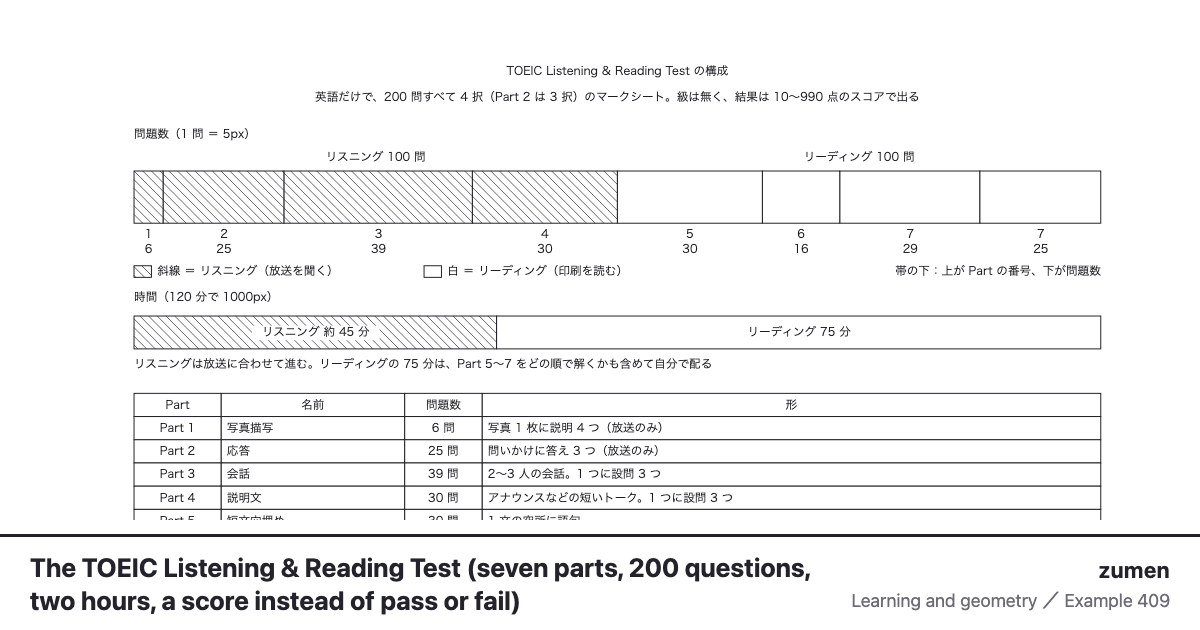
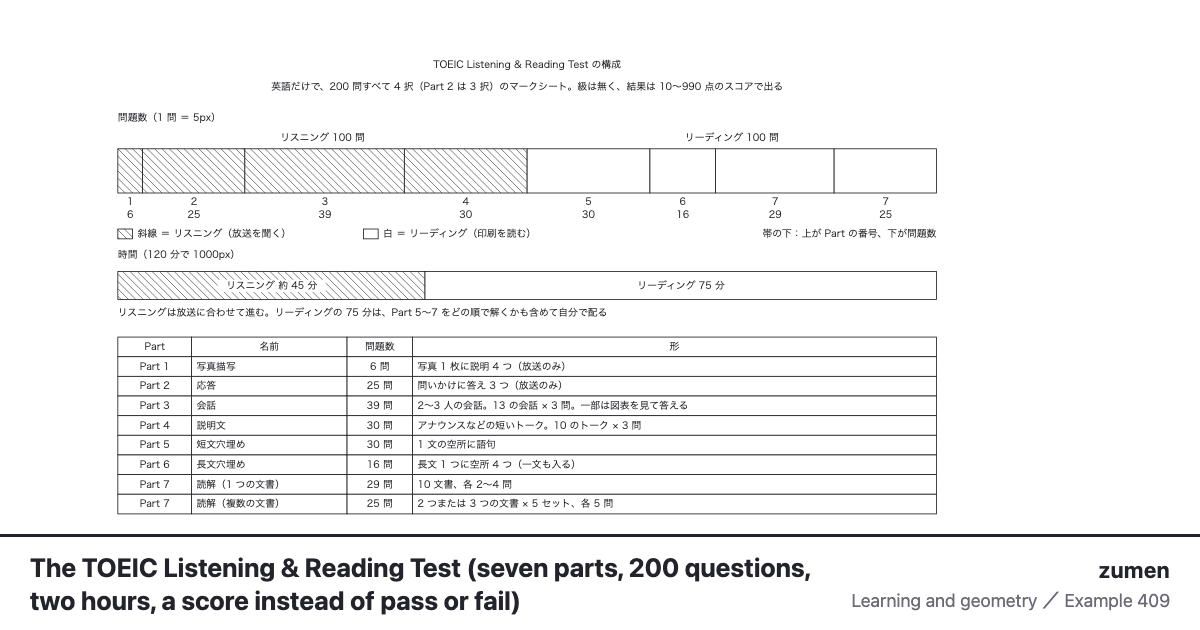
fix(見本): 409 を見直し —— Part ごとの数と 2016 年の形・英検の CSE
Part 3 は 13 の会話 × 3 問、Part 4 は 10 のトーク × 3 問、Part 7 は 10 文書と 2〜3 文書 × 5 セット
（ETS の受験者向けハンドブック）。図表を見て答える設問と、チャット・テキストメッセージの文書を足した。
英検も合否に加えて CSE スコアが出る、英作文と面接は 3 級以上、に直した。
何年に何が加わったかはハンドブックにも書かれていないので、描かなかったものに残した。

Claude-Session: https://claude.ai/code/session_01SsuPBZV9YaAZ9NJNDHvP2H

diff --git a/site/all/index.html b/site/all/index.html
@@ -276,7 +276,7 @@
       <li data-name="402 時差の世界地図（経度の帯と、国が決めた時） Every 15 degrees of longitude is an hour, but clocks follow borders. Twenty cities from the IANA tz database sit on the nominal bands: Seoul keeps Japan's 135-degree time, all of China keeps +8, Kolkata +5:30 and Kathmandu +5:45, and Kiritimati and Apia lie east of 180 degrees yet keep +14 and +13, a whole day ahead of Pago Pago next door. 学び・図学"><a href="../g/402/"><img src="../gallery/402-%E6%99%82%E5%B7%AE%E3%81%AE%E4%B8%96%E7%95%8C%E5%9C%B0%E5%9B%B3-%E7%B5%8C%E5%BA%A6%E3%81%AE%E5%B8%AF%E3%81%A8%E5%9B%BD%E3%81%8C%E6%B1%BA%E3%82%81%E3%81%9F%E6%99%82.svg" alt="太平洋を真ん中に置いた世界地図に、経度 15° ごとの時差の帯（−2〜±12〜−3）を破線で引き、20 都市の実際の標準時を札で置いた図。経度どおりは白、国で決めて 1 時間以上ずれる所（ソウル・ラサ・マドリード・ホノルル）は青、30 分・45 分ずらす所（コルカタ +5:30・カトマンズ +5:45 など）は橙、経度 180° より東なのに日付が先の所（キリティマティ +14・アピア +13・チャタム +12:45）は紫。日本の標準時の東経 135° を赤い線で。下に都市ごとの経度・経度で決めた時差・標準時・夏時間・わけの表" width="1010" height="1082" loading="lazy" decoding="async"><span>時差の世界地図（経度の帯と、国が決めた時）</span></a></li>
       <li data-name="407 英検の級ごとの構成（2024 年度のリニューアルと、2025 年度の準 2 級プラス） All eight grades of EIKEN, the Japanese English test, as rows, with each part drawn to scale in minutes: reading and writing, then listening, then the interview (an optional speaking test for Grades 4 and 5), and the two writing tasks per grade. A table lists the 2024 changes: a second writing task (summary or e-mail), fewer reading questions, more time for Pre-2 and 3. 学び・図学"><a href="../g/407/"><img src="../gallery/407-%E8%8B%B1%E6%A4%9C%E3%81%AE%E7%B4%9A%E3%81%94%E3%81%A8%E3%81%AE%E6%A7%8B%E6%88%90.svg" alt="英検の 1 級から 5 級まで 8 つの級を行に並べ、一次試験の時間を横の長さ（1 分 4px）で描いた図。リーディング・ライティングの枠に続けてリスニングを点の地で、右に二次試験（3 級以上で一次に合格した人の英語での面接）を斜線で、4・5 級の任意のスピーキングテストを網目で、その右にライティングの 2 題（1 級〜準 2 級プラスは要約と意見論述、準 2 級と 3 級は E メールと意見論述）。2024 年度に形が変わった級に 2024、準 2 級プラスに 2025 の印。下に、2024 年度第 1 回から変わったこと（英作文が 2 題に、リーディングの問題数、準 2 級と 3 級の時間延長）の表" width="1344" height="1092" loading="lazy" decoding="async"><span>英検の級ごとの構成（2024 年度のリニューアルと、2025 年度の準 2 級プラス）</span></a></li>
       <li data-name="408 マークシートの様式と塗り方（架空の解答用紙・タイミングマーク・良い例と悪い例） A fictional machine-read answer sheet. The ID is written in boxes and marked digit by digit, 0 at the top; answers are one oval per question; black timing marks down the edge let the reader count rows, while the ovals are printed in a dropout colour the reader ignores. Beside it: one good mark, six bad ones, common ID mistakes and the pencil rules of two exams. 学び・図学"><a href="../g/408/"><img src="../gallery/408-%E3%83%9E%E3%83%BC%E3%82%AF%E3%82%B7%E3%83%BC%E3%83%88%E3%81%AE%E6%A7%98%E5%BC%8F%E3%81%A8%E5%A1%97%E3%82%8A%E6%96%B9.svg" alt="架空のマークシートの解答用紙。左の用紙に、手で書いた受験番号 4 けたと、その下で同じけたの数字を塗る 0〜9 の縦の欄（0 が上、9 がいちばん下）、問 1〜8 の 1〜4 の楕円を並べ、左の縁に読み取り機が行を数える黒いタイミングマークを刷った。楕円と数字は読み取りで消えるドロップアウトカラーで刷り、塗った所だけが黒い。右に塗り方の良い例（楕円の中を濃く全部）と悪い例 6 つ（線だけ・小さい・はみ出し・輪郭だけ・レ点・薄い）、受験番号で起きやすい塗り間違い 4 つの表。下に、鉛筆と消しゴムの決まりを大学入学共通テストと埼玉県の公立高校入試で比べた表" width="1244" height="1038" loading="lazy" decoding="async"><span>マークシートの様式と塗り方（架空の解答用紙・タイミングマーク・良い例と悪い例）</span></a></li>
-      <li data-name="409 TOEIC L&amp;R の構成（7 つの Part・200 問・2 時間。結果は合否ではなくスコア） The 200 questions of the TOEIC Listening &amp; Reading Test as one bar, 5px per question: Parts 1 to 4 (listening, hatched) and Parts 5 to 7 (reading). Below: the 45 and 75 minutes, what each part asks, the score rulers (5 to 495 per section, 10 to 990 in all, no pass or fail) and how it differs from EIKEN. 学び・図学"><a href="../g/409/"><img src="../gallery/409-TOEIC-LR%E3%81%AE%E6%A7%8B%E6%88%90.svg" alt="TOEIC Listening &amp; Reading Test の 200 問を、1 問 5px の横の帯で Part 1 から 7 まで並べた図。斜線のリスニング（Part 1 写真描写 6・Part 2 応答 25・Part 3 会話 39・Part 4 説明文 30）と白のリーディング（Part 5 短文穴埋め 30・Part 6 長文穴埋め 16・Part 7 読解 1 つの文書 29・複数の文書 25）。その下に約 45 分と 75 分の時間の帯、Part ごとの形の表、リスニング 5〜495・リーディング 5〜495・トータル 10〜990 のスコアの物差し、英検との違いの表" width="1084" height="1022" loading="lazy" decoding="async"><span>TOEIC L&amp;R の構成（7 つの Part・200 問・2 時間。結果は合否ではなくスコア）</span></a></li>
+      <li data-name="409 TOEIC L&amp;R の構成（7 つの Part・200 問・2 時間。結果は合否ではなくスコア） The 200 questions of the TOEIC Listening &amp; Reading Test as one bar, 5px per question: Parts 1 to 4 (listening, hatched) and Parts 5 to 7 (reading). Below: the 45 and 75 minutes, what each part asks, the score rulers (5 to 495 per section, 10 to 990 in all, no pass or fail) and how it differs from EIKEN. 学び・図学"><a href="../g/409/"><img src="../gallery/409-TOEIC-LR%E3%81%AE%E6%A7%8B%E6%88%90.svg" alt="TOEIC Listening &amp; Reading Test の 200 問を、1 問 5px の横の帯で Part 1 から 7 まで並べた図。斜線のリスニング（Part 1 写真描写 6・Part 2 応答 25・Part 3 会話 39・Part 4 説明文 30）と白のリーディング（Part 5 短文穴埋め 30・Part 6 長文穴埋め 16・Part 7 読解 1 つの文書 29・複数の文書 25）。その下に約 45 分と 75 分の時間の帯、Part ごとの形の表、リスニング 5〜495・リーディング 5〜495・トータル 10〜990 のスコアの物差し、英検との違いの表" width="1298" height="1074" loading="lazy" decoding="async"><span>TOEIC L&amp;R の構成（7 つの Part・200 問・2 時間。結果は合否ではなくスコア）</span></a></li>
     </ul>
   </section>
   <section class="field" data-field="楽器・音響">

diff --git a/site/index.html b/site/index.html
@@ -348,7 +348,7 @@
     <h3 class="cat" data-cat="manabi"><a href="c/manabi/">学び・図学</a><span class="n">33</span></h3>
     <figure data-cat="manabi"><picture><source srcset="gallery/407-英検の級ごとの構成-dark.svg" media="(prefers-color-scheme: dark)"><img loading="lazy" decoding="async" width="1344" height="1092" src="gallery/407-英検の級ごとの構成.svg" alt="英検の 1 級から 5 級まで 8 つの級を行に並べ、一次試験の時間を横の長さ（1 分 4px）で描いた図。リーディング・ライティングの枠に続けてリスニングを点の地で、右に二次試験（3 級以上で一次に合格した人の英語での面接）を斜線で、4・5 級の任意のスピーキングテストを網目で、その右にライティングの 2 題（1 級〜準 2 級プラスは要約と意見論述、準 2 級と 3 級は E メールと意見論述）。2024 年度に形が変わった級に 2024、準 2 級プラスに 2025 の印。下に、2024 年度第 1 回から変わったこと（英作文が 2 題に、リーディングの問題数、準 2 級と 3 級の時間延長）の表"></picture><figcaption>英検の級ごとの構成（2024 年度のリニューアルと、2025 年度の準 2 級プラス）</figcaption></figure>
     <figure data-cat="manabi"><picture><source srcset="gallery/408-マークシートの様式と塗り方-dark.svg" media="(prefers-color-scheme: dark)"><img loading="lazy" decoding="async" width="1244" height="1038" src="gallery/408-マークシートの様式と塗り方.svg" alt="架空のマークシートの解答用紙。左の用紙に、手で書いた受験番号 4 けたと、その下で同じけたの数字を塗る 0〜9 の縦の欄（0 が上、9 がいちばん下）、問 1〜8 の 1〜4 の楕円を並べ、左の縁に読み取り機が行を数える黒いタイミングマークを刷った。楕円と数字は読み取りで消えるドロップアウトカラーで刷り、塗った所だけが黒い。右に塗り方の良い例（楕円の中を濃く全部）と悪い例 6 つ（線だけ・小さい・はみ出し・輪郭だけ・レ点・薄い）、受験番号で起きやすい塗り間違い 4 つの表。下に、鉛筆と消しゴムの決まりを大学入学共通テストと埼玉県の公立高校入試で比べた表"></picture><figcaption>マークシートの様式と塗り方（架空の解答用紙・タイミングマーク・良い例と悪い例）</figcaption></figure>
-    <figure data-cat="manabi"><picture><source srcset="gallery/409-TOEIC-LRの構成-dark.svg" media="(prefers-color-scheme: dark)"><img loading="lazy" decoding="async" width="1084" height="1022" src="gallery/409-TOEIC-LRの構成.svg" alt="TOEIC Listening & Reading Test の 200 問を、1 問 5px の横の帯で Part 1 から 7 まで並べた図。斜線のリスニング（Part 1 写真描写 6・Part 2 応答 25・Part 3 会話 39・Part 4 説明文 30）と白のリーディング（Part 5 短文穴埋め 30・Part 6 長文穴埋め 16・Part 7 読解 1 つの文書 29・複数の文書 25）。その下に約 45 分と 75 分の時間の帯、Part ごとの形の表、リスニング 5〜495・リーディング 5〜495・トータル 10〜990 のスコアの物差し、英検との違いの表"></picture><figcaption>TOEIC L&R の構成（7 つの Part・200 問・2 時間。結果は合否ではなくスコア）</figcaption></figure>
+    <figure data-cat="manabi"><picture><source srcset="gallery/409-TOEIC-LRの構成-dark.svg" media="(prefers-color-scheme: dark)"><img loading="lazy" decoding="async" width="1298" height="1074" src="gallery/409-TOEIC-LRの構成.svg" alt="TOEIC Listening & Reading Test の 200 問を、1 問 5px の横の帯で Part 1 から 7 まで並べた図。斜線のリスニング（Part 1 写真描写 6・Part 2 応答 25・Part 3 会話 39・Part 4 説明文 30）と白のリーディング（Part 5 短文穴埋め 30・Part 6 長文穴埋め 16・Part 7 読解 1 つの文書 29・複数の文書 25）。その下に約 45 分と 75 分の時間の帯、Part ごとの形の表、リスニング 5〜495・リーディング 5〜495・トータル 10〜990 のスコアの物差し、英検との違いの表"></picture><figcaption>TOEIC L&R の構成（7 つの Part・200 問・2 時間。結果は合否ではなくスコア）</figcaption></figure>
     <figure data-cat="manabi"><picture><source srcset="gallery/402-時差の世界地図-経度の帯と国が決めた時-dark.svg" media="(prefers-color-scheme: dark)"><img loading="lazy" decoding="async" width="1010" height="1082" src="gallery/402-時差の世界地図-経度の帯と国が決めた時.svg" alt="太平洋を真ん中に置いた世界地図に、経度 15° ごとの時差の帯（−2〜±12〜−3）を破線で引き、20 都市の実際の標準時を札で置いた図。経度どおりは白、国で決めて 1 時間以上ずれる所（ソウル・ラサ・マドリード・ホノルル）は青、30 分・45 分ずらす所（コルカタ +5:30・カトマンズ +5:45 など）は橙、経度 180° より東なのに日付が先の所（キリティマティ +14・アピア +13・チャタム +12:45）は紫。日本の標準時の東経 135° を赤い線で。下に都市ごとの経度・経度で決めた時差・標準時・夏時間・わけの表"></picture><figcaption>時差の世界地図（経度の帯と、国が決めた時）</figcaption></figure>
     <figure data-cat="manabi"><picture><source srcset="gallery/400-大圏航路と等角航路-東京からニューヨーク-dark.svg" media="(prefers-color-scheme: dark)"><img loading="lazy" decoding="async" width="1089" height="828" src="gallery/400-大圏航路と等角航路-東京からニューヨーク.svg" alt="東京からニューヨークへの 2 つの道を 2 つの図法で並べた図。左のメルカトル図法では、最短の大圏航路（赤）がアラスカの上まで北へ弧を描き、方位を一定に保つ等角航路（青の点線）がまっすぐな線になる。右の東京中心の正距方位図法では逆に、大圏航路が東京から引いた直線になり、等角航路が曲がる。5,000km・10,000km の距離の輪つき。下に長さ（約 10,850km と約 12,780km）と東京を出る向きの表"></picture><figcaption>大圏航路と等角航路（地図の直線は最短とは限らない）</figcaption></figure>
     <figure data-cat="manabi"><picture><source srcset="gallery/376-水面の波の干渉-線の本数-dark.svg" media="(prefers-color-scheme: dark)"><img loading="lazy" decoding="async" width="1396" height="1300" src="gallery/376-水面の波の干渉-線の本数.svg" alt="同じ波を出す 2 つの波源から広がる山と谷の円と、強め合う線（腹線）5 本・弱め合う線（節線）4 本を双曲線で描いた水面の干渉の図。距離の差が波長の整数倍で強め合い、半端で弱め合うことと、線の本数が波源の間隔と波長の比で決まること（d＝2.4λ で 5 本）を表と数直線で示している"></picture><figcaption>水面の波の干渉（線の本数は、波源の間隔と波長で決まる）</figcaption></figure>

diff --git a/site/en/all/index.html b/site/en/all/index.html
@@ -276,7 +276,7 @@
       <li data-name="402 時差の世界地図（経度の帯と、国が決めた時） Every 15 degrees of longitude is an hour, but clocks follow borders. Twenty cities from the IANA tz database sit on the nominal bands: Seoul keeps Japan's 135-degree time, all of China keeps +8, Kolkata +5:30 and Kathmandu +5:45, and Kiritimati and Apia lie east of 180 degrees yet keep +14 and +13, a whole day ahead of Pago Pago next door. Learning and geometry"><a href="../g/402/"><img src="../../gallery/402-%E6%99%82%E5%B7%AE%E3%81%AE%E4%B8%96%E7%95%8C%E5%9C%B0%E5%9B%B3-%E7%B5%8C%E5%BA%A6%E3%81%AE%E5%B8%AF%E3%81%A8%E5%9B%BD%E3%81%8C%E6%B1%BA%E3%82%81%E3%81%9F%E6%99%82.svg" alt="Every 15 degrees of longitude is an hour, but clocks follow borders. Twenty cities from the IANA tz database sit on the nominal bands: Seoul keeps Japan's 135-degree time, all of China keeps +8, Kolkata +5:30 and Kathmandu +5:45, and Kiritimati and Apia lie east of 180 degrees yet keep +14 and +13, a whole day ahead of Pago Pago next door." width="1010" height="1082" loading="lazy" decoding="async"><span>Every 15 degrees of longitude is an hour, but clocks follow borders. Twenty cities from the IANA tz database sit on the nominal bands: Seoul keeps Japan's 135-degree time, all of China keeps +8, Kolkata +5:30 and Kathmandu +5:45, and Kiritimati and Apia lie east of 180 degrees yet keep +14 and +13, a whole day ahead of Pago Pago next door.</span></a></li>
       <li data-name="407 英検の級ごとの構成（2024 年度のリニューアルと、2025 年度の準 2 級プラス） All eight grades of EIKEN, the Japanese English test, as rows, with each part drawn to scale in minutes: reading and writing, then listening, then the interview (an optional speaking test for Grades 4 and 5), and the two writing tasks per grade. A table lists the 2024 changes: a second writing task (summary or e-mail), fewer reading questions, more time for Pre-2 and 3. Learning and geometry"><a href="../g/407/"><img src="../../gallery/407-%E8%8B%B1%E6%A4%9C%E3%81%AE%E7%B4%9A%E3%81%94%E3%81%A8%E3%81%AE%E6%A7%8B%E6%88%90.svg" alt="All eight grades of EIKEN, the Japanese English test, as rows, with each part drawn to scale in minutes: reading and writing, then listening, then the interview (an optional speaking test for Grades 4 and 5), and the two writing tasks per grade. A table lists the 2024 changes: a second writing task (summary or e-mail), fewer reading questions, more time for Pre-2 and 3." width="1344" height="1092" loading="lazy" decoding="async"><span>All eight grades of EIKEN, the Japanese English test, as rows, with each part drawn to scale in minutes: reading and writing, then listening, then the interview (an optional speaking test for Grades 4 and 5), and the two writing tasks per grade. A table lists the 2024 changes: a second writing task (summary or e-mail), fewer reading questions, more time for Pre-2 and 3.</span></a></li>
       <li data-name="408 マークシートの様式と塗り方（架空の解答用紙・タイミングマーク・良い例と悪い例） A fictional machine-read answer sheet. The ID is written in boxes and marked digit by digit, 0 at the top; answers are one oval per question; black timing marks down the edge let the reader count rows, while the ovals are printed in a dropout colour the reader ignores. Beside it: one good mark, six bad ones, common ID mistakes and the pencil rules of two exams. Learning and geometry"><a href="../g/408/"><img src="../../gallery/408-%E3%83%9E%E3%83%BC%E3%82%AF%E3%82%B7%E3%83%BC%E3%83%88%E3%81%AE%E6%A7%98%E5%BC%8F%E3%81%A8%E5%A1%97%E3%82%8A%E6%96%B9.svg" alt="A fictional machine-read answer sheet. The ID is written in boxes and marked digit by digit, 0 at the top; answers are one oval per question; black timing marks down the edge let the reader count rows, while the ovals are printed in a dropout colour the reader ignores. Beside it: one good mark, six bad ones, common ID mistakes and the pencil rules of two exams." width="1244" height="1038" loading="lazy" decoding="async"><span>A fictional machine-read answer sheet. The ID is written in boxes and marked digit by digit, 0 at the top; answers are one oval per question; black timing marks down the edge let the reader count rows, while the ovals are printed in a dropout colour the reader ignores. Beside it: one good mark, six bad ones, common ID mistakes and the pencil rules of two exams.</span></a></li>
-      <li data-name="409 TOEIC L&amp;R の構成（7 つの Part・200 問・2 時間。結果は合否ではなくスコア） The 200 questions of the TOEIC Listening &amp; Reading Test as one bar, 5px per question: Parts 1 to 4 (listening, hatched) and Parts 5 to 7 (reading). Below: the 45 and 75 minutes, what each part asks, the score rulers (5 to 495 per section, 10 to 990 in all, no pass or fail) and how it differs from EIKEN. Learning and geometry"><a href="../g/409/"><img src="../../gallery/409-TOEIC-LR%E3%81%AE%E6%A7%8B%E6%88%90.svg" alt="The 200 questions of the TOEIC Listening &amp; Reading Test as one bar, 5px per question: Parts 1 to 4 (listening, hatched) and Parts 5 to 7 (reading). Below: the 45 and 75 minutes, what each part asks, the score rulers (5 to 495 per section, 10 to 990 in all, no pass or fail) and how it differs from EIKEN." width="1084" height="1022" loading="lazy" decoding="async"><span>The 200 questions of the TOEIC Listening &amp; Reading Test as one bar, 5px per question: Parts 1 to 4 (listening, hatched) and Parts 5 to 7 (reading). Below: the 45 and 75 minutes, what each part asks, the score rulers (5 to 495 per section, 10 to 990 in all, no pass or fail) and how it differs from EIKEN.</span></a></li>
+      <li data-name="409 TOEIC L&amp;R の構成（7 つの Part・200 問・2 時間。結果は合否ではなくスコア） The 200 questions of the TOEIC Listening &amp; Reading Test as one bar, 5px per question: Parts 1 to 4 (listening, hatched) and Parts 5 to 7 (reading). Below: the 45 and 75 minutes, what each part asks, the score rulers (5 to 495 per section, 10 to 990 in all, no pass or fail) and how it differs from EIKEN. Learning and geometry"><a href="../g/409/"><img src="../../gallery/409-TOEIC-LR%E3%81%AE%E6%A7%8B%E6%88%90.svg" alt="The 200 questions of the TOEIC Listening &amp; Reading Test as one bar, 5px per question: Parts 1 to 4 (listening, hatched) and Parts 5 to 7 (reading). Below: the 45 and 75 minutes, what each part asks, the score rulers (5 to 495 per section, 10 to 990 in all, no pass or fail) and how it differs from EIKEN." width="1298" height="1074" loading="lazy" decoding="async"><span>The 200 questions of the TOEIC Listening &amp; Reading Test as one bar, 5px per question: Parts 1 to 4 (listening, hatched) and Parts 5 to 7 (reading). Below: the 45 and 75 minutes, what each part asks, the score rulers (5 to 495 per section, 10 to 990 in all, no pass or fail) and how it differs from EIKEN.</span></a></li>
     </ul>
   </section>
   <section class="field" data-field="Instruments and acoustics">

diff --git a/site/en/index.html b/site/en/index.html
@@ -321,7 +321,7 @@
     <h3 class="cat" data-cat="manabi"><a href="c/manabi/">Learning and geometry</a><span class="n">33</span></h3>
     <figure data-cat="manabi"><picture><source srcset="../gallery/407-英検の級ごとの構成-dark.svg" media="(prefers-color-scheme: dark)"><img loading="lazy" decoding="async" width="1344" height="1092" src="../gallery/407-英検の級ごとの構成.svg" alt="All eight grades of EIKEN, the Japanese English test, as rows, with each part drawn to scale in minutes: reading and writing, then listening, then the interview (an optional speaking test for Grades 4 and 5), and the two writing tasks per grade. A table lists the 2024 changes: a second writing task (summary or e-mail), fewer reading questions, more time for Pre-2 and 3."></picture><figcaption>All eight grades of EIKEN, the Japanese English test, as rows, with each part drawn to scale in minutes: reading and writing, then listening, then the interview (an optional speaking test for Grades 4 and 5), and the two writing tasks per grade. A table lists the 2024 changes: a second writing task (summary or e-mail), fewer reading questions, more time for Pre-2 and 3.</figcaption></figure>
     <figure data-cat="manabi"><picture><source srcset="../gallery/408-マークシートの様式と塗り方-dark.svg" media="(prefers-color-scheme: dark)"><img loading="lazy" decoding="async" width="1244" height="1038" src="../gallery/408-マークシートの様式と塗り方.svg" alt="A fictional machine-read answer sheet. The ID is written in boxes and marked digit by digit, 0 at the top; answers are one oval per question; black timing marks down the edge let the reader count rows, while the ovals are printed in a dropout colour the reader ignores. Beside it: one good mark, six bad ones, common ID mistakes and the pencil rules of two exams."></picture><figcaption>A fictional machine-read answer sheet. The ID is written in boxes and marked digit by digit, 0 at the top; answers are one oval per question; black timing marks down the edge let the reader count rows, while the ovals are printed in a dropout colour the reader ignores. Beside it: one good mark, six bad ones, common ID mistakes and the pencil rules of two exams.</figcaption></figure>
-    <figure data-cat="manabi"><picture><source srcset="../gallery/409-TOEIC-LRの構成-dark.svg" media="(prefers-color-scheme: dark)"><img loading="lazy" decoding="async" width="1084" height="1022" src="../gallery/409-TOEIC-LRの構成.svg" alt="The 200 questions of the TOEIC Listening & Reading Test as one bar, 5px per question: Parts 1 to 4 (listening, hatched) and Parts 5 to 7 (reading). Below: the 45 and 75 minutes, what each part asks, the score rulers (5 to 495 per section, 10 to 990 in all, no pass or fail) and how it differs from EIKEN."></picture><figcaption>The 200 questions of the TOEIC Listening & Reading Test as one bar, 5px per question: Parts 1 to 4 (listening, hatched) and Parts 5 to 7 (reading). Below: the 45 and 75 minutes, what each part asks, the score rulers (5 to 495 per section, 10 to 990 in all, no pass or fail) and how it differs from EIKEN.</figcaption></figure>
+    <figure data-cat="manabi"><picture><source srcset="../gallery/409-TOEIC-LRの構成-dark.svg" media="(prefers-color-scheme: dark)"><img loading="lazy" decoding="async" width="1298" height="1074" src="../gallery/409-TOEIC-LRの構成.svg" alt="The 200 questions of the TOEIC Listening & Reading Test as one bar, 5px per question: Parts 1 to 4 (listening, hatched) and Parts 5 to 7 (reading). Below: the 45 and 75 minutes, what each part asks, the score rulers (5 to 495 per section, 10 to 990 in all, no pass or fail) and how it differs from EIKEN."></picture><figcaption>The 200 questions of the TOEIC Listening & Reading Test as one bar, 5px per question: Parts 1 to 4 (listening, hatched) and Parts 5 to 7 (reading). Below: the 45 and 75 minutes, what each part asks, the score rulers (5 to 495 per section, 10 to 990 in all, no pass or fail) and how it differs from EIKEN.</figcaption></figure>
     <figure data-cat="manabi"><picture><source srcset="../gallery/402-時差の世界地図-経度の帯と国が決めた時-dark.svg" media="(prefers-color-scheme: dark)"><img loading="lazy" decoding="async" width="1010" height="1082" src="../gallery/402-時差の世界地図-経度の帯と国が決めた時.svg" alt="Every 15 degrees of longitude is an hour, but clocks follow borders. Twenty cities from the IANA tz database sit on the nominal bands: Seoul keeps Japan's 135-degree time, all of China keeps +8, Kolkata +5:30 and Kathmandu +5:45, and Kiritimati and Apia lie east of 180 degrees yet keep +14 and +13, a whole day ahead of Pago Pago next door."></picture><figcaption>Every 15 degrees of longitude is an hour, but clocks follow borders. Twenty cities from the IANA tz database sit on the nominal bands: Seoul keeps Japan's 135-degree time, all of China keeps +8, Kolkata +5:30 and Kathmandu +5:45, and Kiritimati and Apia lie east of 180 degrees yet keep +14 and +13, a whole day ahead of Pago Pago next door.</figcaption></figure>
     <figure data-cat="manabi"><picture><source srcset="../gallery/400-大圏航路と等角航路-東京からニューヨーク-dark.svg" media="(prefers-color-scheme: dark)"><img loading="lazy" decoding="async" width="1089" height="828" src="../gallery/400-大圏航路と等角航路-東京からニューヨーク.svg" alt="Tokyo to New York two ways on two projections: on Mercator the shortest great-circle route arcs up over Alaska while the constant-bearing rhumb line is straight; on an azimuthal equidistant map centred on Tokyo the great circle is the straight line and the rhumb line bends. About 10,850 km against 12,780 km."></picture><figcaption>Tokyo to New York two ways on two projections: on Mercator the shortest great-circle route arcs up over Alaska while the constant-bearing rhumb line is straight; on an azimuthal equidistant map centred on Tokyo the great circle is the straight line and the rhumb line bends. About 10,850 km against 12,780 km.</figcaption></figure>
     <figure data-cat="manabi"><picture><source srcset="../gallery/376-水面の波の干渉-線の本数-dark.svg" media="(prefers-color-scheme: dark)"><img loading="lazy" decoding="async" width="1396" height="1300" src="../gallery/376-水面の波の干渉-線の本数.svg" alt="Two-source interference on water: crests and troughs from two sources in step, with five lines of reinforcement and four of cancellation drawn as hyperbolas. The path difference can never exceed the source spacing, so the number of lines is fixed by spacing divided by wavelength"></picture><figcaption>Two-source interference on water: crests and troughs from two sources in step, with five lines of reinforcement and four of cancellation drawn as hyperbolas. The path difference can never exceed the source spacing, so the number of lines is fixed by spacing divided by wavelength</figcaption></figure>

diff --git a/site/c/manabi/index.html b/site/c/manabi/index.html
@@ -312,7 +312,7 @@
     <li><a href="../../g/402/"><img src="../../gallery/402-%E6%99%82%E5%B7%AE%E3%81%AE%E4%B8%96%E7%95%8C%E5%9C%B0%E5%9B%B3-%E7%B5%8C%E5%BA%A6%E3%81%AE%E5%B8%AF%E3%81%A8%E5%9B%BD%E3%81%8C%E6%B1%BA%E3%82%81%E3%81%9F%E6%99%82.svg" alt="太平洋を真ん中に置いた世界地図に、経度 15° ごとの時差の帯（−2〜±12〜−3）を破線で引き、20 都市の実際の標準時を札で置いた図。経度どおりは白、国で決めて 1 時間以上ずれる所（ソウル・ラサ・マドリード・ホノルル）は青、30 分・45 分ずらす所（コルカタ +5:30・カトマンズ +5:45 など）は橙、経度 180° より東なのに日付が先の所（キリティマティ +14・アピア +13・チャタム +12:45）は紫。日本の標準時の東経 135° を赤い線で。下に都市ごとの経度・経度で決めた時差・標準時・夏時間・わけの表" width="1010" height="1082" loading="lazy" decoding="async"><span>時差の世界地図（経度の帯と、国が決めた時）</span></a></li>
     <li><a href="../../g/407/"><img src="../../gallery/407-%E8%8B%B1%E6%A4%9C%E3%81%AE%E7%B4%9A%E3%81%94%E3%81%A8%E3%81%AE%E6%A7%8B%E6%88%90.svg" alt="英検の 1 級から 5 級まで 8 つの級を行に並べ、一次試験の時間を横の長さ（1 分 4px）で描いた図。リーディング・ライティングの枠に続けてリスニングを点の地で、右に二次試験（3 級以上で一次に合格した人の英語での面接）を斜線で、4・5 級の任意のスピーキングテストを網目で、その右にライティングの 2 題（1 級〜準 2 級プラスは要約と意見論述、準 2 級と 3 級は E メールと意見論述）。2024 年度に形が変わった級に 2024、準 2 級プラスに 2025 の印。下に、2024 年度第 1 回から変わったこと（英作文が 2 題に、リーディングの問題数、準 2 級と 3 級の時間延長）の表" width="1344" height="1092" loading="lazy" decoding="async"><span>英検の級ごとの構成（2024 年度のリニューアルと、2025 年度の準 2 級プラス）</span></a></li>
     <li><a href="../../g/408/"><img src="../../gallery/408-%E3%83%9E%E3%83%BC%E3%82%AF%E3%82%B7%E3%83%BC%E3%83%88%E3%81%AE%E6%A7%98%E5%BC%8F%E3%81%A8%E5%A1%97%E3%82%8A%E6%96%B9.svg" alt="架空のマークシートの解答用紙。左の用紙に、手で書いた受験番号 4 けたと、その下で同じけたの数字を塗る 0〜9 の縦の欄（0 が上、9 がいちばん下）、問 1〜8 の 1〜4 の楕円を並べ、左の縁に読み取り機が行を数える黒いタイミングマークを刷った。楕円と数字は読み取りで消えるドロップアウトカラーで刷り、塗った所だけが黒い。右に塗り方の良い例（楕円の中を濃く全部）と悪い例 6 つ（線だけ・小さい・はみ出し・輪郭だけ・レ点・薄い）、受験番号で起きやすい塗り間違い 4 つの表。下に、鉛筆と消しゴムの決まりを大学入学共通テストと埼玉県の公立高校入試で比べた表" width="1244" height="1038" loading="lazy" decoding="async"><span>マークシートの様式と塗り方（架空の解答用紙・タイミングマーク・良い例と悪い例）</span></a></li>
-    <li><a href="../../g/409/"><img src="../../gallery/409-TOEIC-LR%E3%81%AE%E6%A7%8B%E6%88%90.svg" alt="TOEIC Listening &amp; Reading Test の 200 問を、1 問 5px の横の帯で Part 1 から 7 まで並べた図。斜線のリスニング（Part 1 写真描写 6・Part 2 応答 25・Part 3 会話 39・Part 4 説明文 30）と白のリーディング（Part 5 短文穴埋め 30・Part 6 長文穴埋め 16・Part 7 読解 1 つの文書 29・複数の文書 25）。その下に約 45 分と 75 分の時間の帯、Part ごとの形の表、リスニング 5〜495・リーディング 5〜495・トータル 10〜990 のスコアの物差し、英検との違いの表" width="1084" height="1022" loading="lazy" decoding="async"><span>TOEIC L&amp;R の構成（7 つの Part・200 問・2 時間。結果は合否ではなくスコア）</span></a></li>
+    <li><a href="../../g/409/"><img src="../../gallery/409-TOEIC-LR%E3%81%AE%E6%A7%8B%E6%88%90.svg" alt="TOEIC Listening &amp; Reading Test の 200 問を、1 問 5px の横の帯で Part 1 から 7 まで並べた図。斜線のリスニング（Part 1 写真描写 6・Part 2 応答 25・Part 3 会話 39・Part 4 説明文 30）と白のリーディング（Part 5 短文穴埋め 30・Part 6 長文穴埋め 16・Part 7 読解 1 つの文書 29・複数の文書 25）。その下に約 45 分と 75 分の時間の帯、Part ごとの形の表、リスニング 5〜495・リーディング 5〜495・トータル 10〜990 のスコアの物差し、英検との違いの表" width="1298" height="1074" loading="lazy" decoding="async"><span>TOEIC L&amp;R の構成（7 つの Part・200 問・2 時間。結果は合否ではなくスコア）</span></a></li>
   </ul>
 </article>
 </main>

diff --git a/site/en/c/manabi/index.html b/site/en/c/manabi/index.html
@@ -312,7 +312,7 @@
     <li><a href="../../../g/402/"><img src="../../../gallery/402-%E6%99%82%E5%B7%AE%E3%81%AE%E4%B8%96%E7%95%8C%E5%9C%B0%E5%9B%B3-%E7%B5%8C%E5%BA%A6%E3%81%AE%E5%B8%AF%E3%81%A8%E5%9B%BD%E3%81%8C%E6%B1%BA%E3%82%81%E3%81%9F%E6%99%82.svg" alt="Every 15 degrees of longitude is an hour, but clocks follow borders. Twenty cities from the IANA tz database sit on the nominal bands: Seoul keeps Japan's 135-degree time, all of China keeps +8, Kolkata +5:30 and Kathmandu +5:45, and Kiritimati and Apia lie east of 180 degrees yet keep +14 and +13, a whole day ahead of Pago Pago next door." width="1010" height="1082" loading="lazy" decoding="async"><span>Every 15 degrees of longitude is an hour, but clocks follow borders. Twenty cities from the IANA tz database sit on the nominal bands: Seoul keeps Japan's 135-degree time, all of China keeps +8, Kolkata +5:30 and Kathmandu +5:45, and Kiritimati and Apia lie east of 180 degrees yet keep +14 and +13, a whole day ahead of Pago Pago next door.</span></a></li>
     <li><a href="../../../g/407/"><img src="../../../gallery/407-%E8%8B%B1%E6%A4%9C%E3%81%AE%E7%B4%9A%E3%81%94%E3%81%A8%E3%81%AE%E6%A7%8B%E6%88%90.svg" alt="All eight grades of EIKEN, the Japanese English test, as rows, with each part drawn to scale in minutes: reading and writing, then listening, then the interview (an optional speaking test for Grades 4 and 5), and the two writing tasks per grade. A table lists the 2024 changes: a second writing task (summary or e-mail), fewer reading questions, more time for Pre-2 and 3." width="1344" height="1092" loading="lazy" decoding="async"><span>All eight grades of EIKEN, the Japanese English test, as rows, with each part drawn to scale in minutes: reading and writing, then listening, then the interview (an optional speaking test for Grades 4 and 5), and the two writing tasks per grade. A table lists the 2024 changes: a second writing task (summary or e-mail), fewer reading questions, more time for Pre-2 and 3.</span></a></li>
     <li><a href="../../../g/408/"><img src="../../../gallery/408-%E3%83%9E%E3%83%BC%E3%82%AF%E3%82%B7%E3%83%BC%E3%83%88%E3%81%AE%E6%A7%98%E5%BC%8F%E3%81%A8%E5%A1%97%E3%82%8A%E6%96%B9.svg" alt="A fictional machine-read answer sheet. The ID is written in boxes and marked digit by digit, 0 at the top; answers are one oval per question; black timing marks down the edge let the reader count rows, while the ovals are printed in a dropout colour the reader ignores. Beside it: one good mark, six bad ones, common ID mistakes and the pencil rules of two exams." width="1244" height="1038" loading="lazy" decoding="async"><span>A fictional machine-read answer sheet. The ID is written in boxes and marked digit by digit, 0 at the top; answers are one oval per question; black timing marks down the edge let the reader count rows, while the ovals are printed in a dropout colour the reader ignores. Beside it: one good mark, six bad ones, common ID mistakes and the pencil rules of two exams.</span></a></li>
-    <li><a href="../../../g/409/"><img src="../../../gallery/409-TOEIC-LR%E3%81%AE%E6%A7%8B%E6%88%90.svg" alt="The 200 questions of the TOEIC Listening &amp; Reading Test as one bar, 5px per question: Parts 1 to 4 (listening, hatched) and Parts 5 to 7 (reading). Below: the 45 and 75 minutes, what each part asks, the score rulers (5 to 495 per section, 10 to 990 in all, no pass or fail) and how it differs from EIKEN." width="1084" height="1022" loading="lazy" decoding="async"><span>The 200 questions of the TOEIC Listening &amp; Reading Test as one bar, 5px per question: Parts 1 to 4 (listening, hatched) and Parts 5 to 7 (reading). Below: the 45 and 75 minutes, what each part asks, the score rulers (5 to 495 per section, 10 to 990 in all, no pass or fail) and how it differs from EIKEN.</span></a></li>
+    <li><a href="../../../g/409/"><img src="../../../gallery/409-TOEIC-LR%E3%81%AE%E6%A7%8B%E6%88%90.svg" alt="The 200 questions of the TOEIC Listening &amp; Reading Test as one bar, 5px per question: Parts 1 to 4 (listening, hatched) and Parts 5 to 7 (reading). Below: the 45 and 75 minutes, what each part asks, the score rulers (5 to 495 per section, 10 to 990 in all, no pass or fail) and how it differs from EIKEN." width="1298" height="1074" loading="lazy" decoding="async"><span>The 200 questions of the TOEIC Listening &amp; Reading Test as one bar, 5px per question: Parts 1 to 4 (listening, hatched) and Parts 5 to 7 (reading). Below: the 45 and 75 minutes, what each part asks, the score rulers (5 to 495 per section, 10 to 990 in all, no pass or fail) and how it differs from EIKEN.</span></a></li>
   </ul>
 </article>
 </main>
